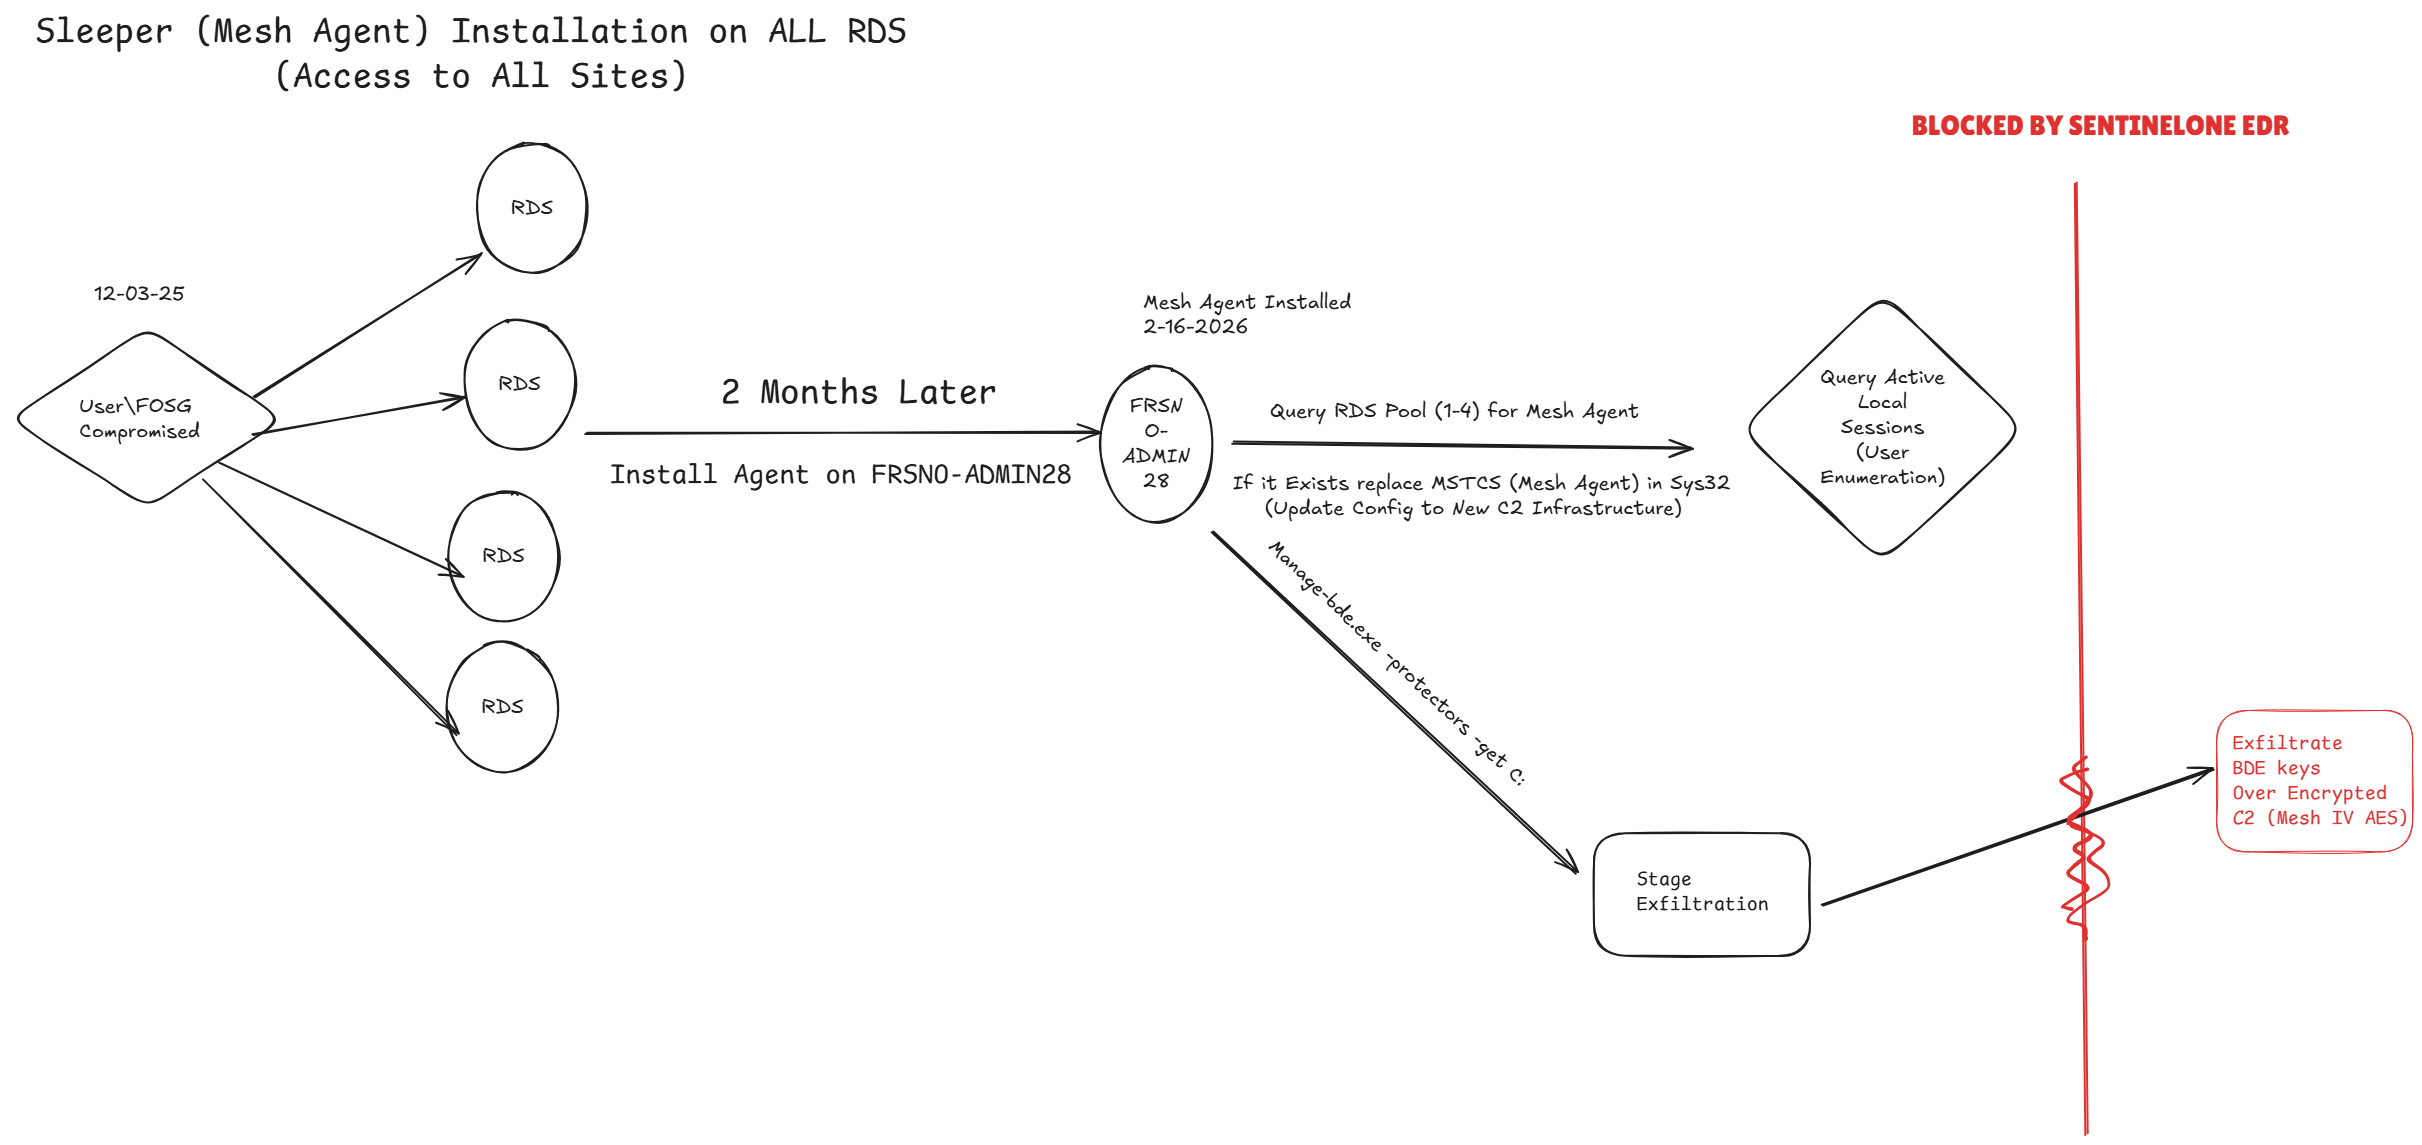
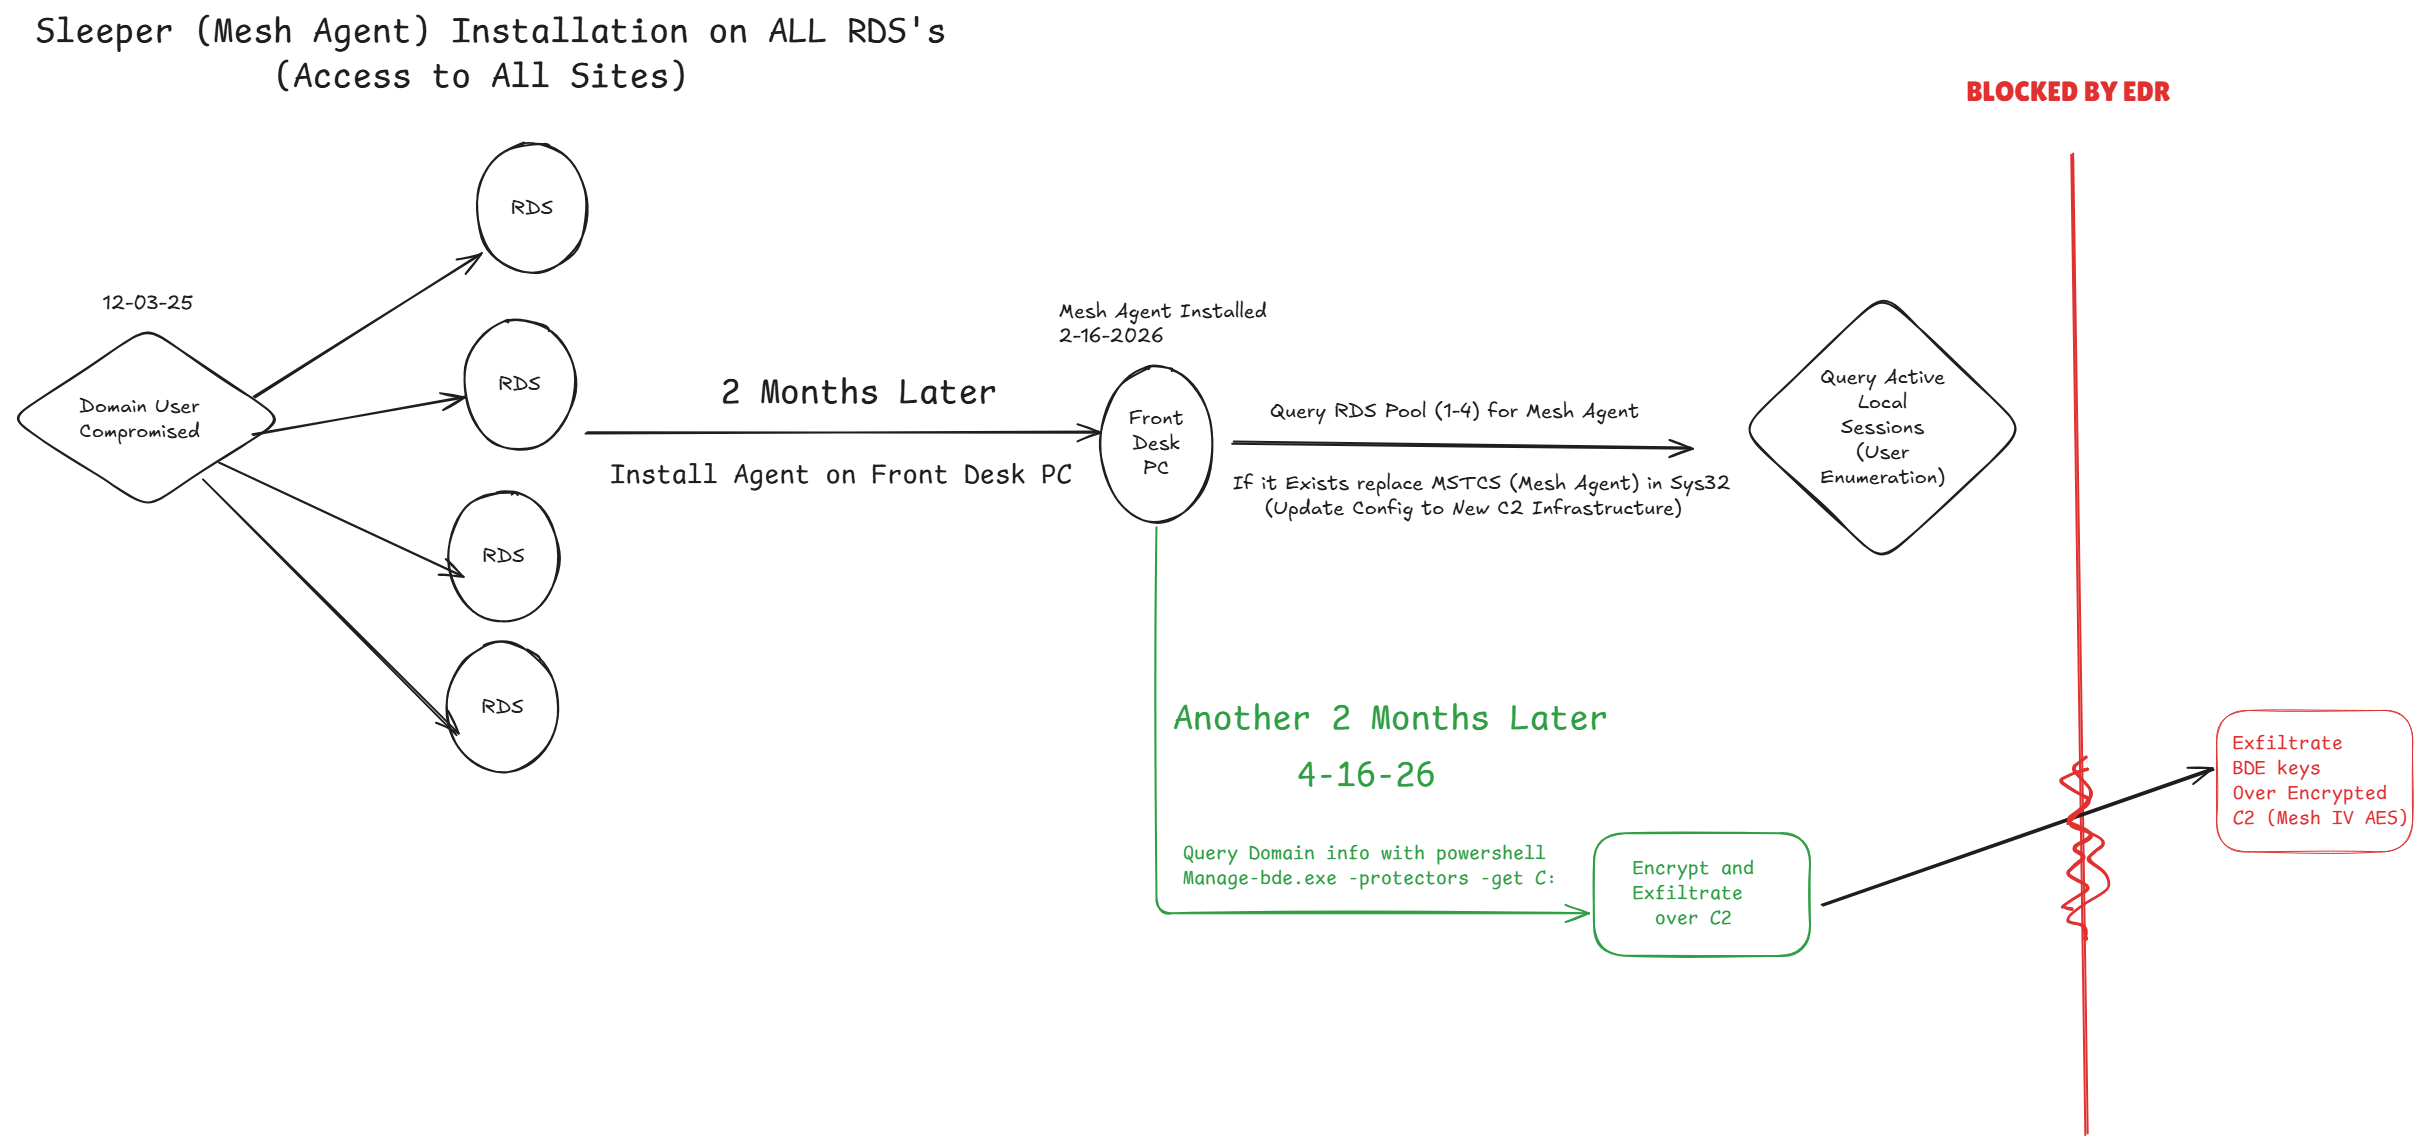
update blog posts

diff --git a/content/posts/Mesh_Agent_RMM_DFIR.md b/content/posts/Mesh_Agent_RMM_DFIR.md
@@ -1,6 +1,6 @@
 ---
 title: "Mesh Agent: A story of the random open-source RMM tool"
-date: 2026-05-06
+date: 2026-05-07
 author: garrettoh
 categories:
   - Security
@@ -11,35 +11,51 @@ tags:
   - Incident Report
 ---
 
- Threat Analysis: MeshAgent Sleeper Deployment and Attempted BDE Key Exfiltration
+# Threat Analysis: MeshAgent Sleeper RMM and Attempted BDE Key Exfiltration
 
-## Executive Summary
-This post details a multi-staged intrusion originating from a compromised user account, leading to the deployment of a "sleeper" MeshAgent payload across an RDS environment. The threat actor maintained persistence for over two months, conducting network reconnaissance and lateral movement before attempting to exfiltrate BitLocker (BDE) recovery keys. The final exfiltration phase over an encrypted C2 channel was successfully intercepted and blocked by SentinelOne EDR.
+## Initial Information
+I wanted to start this off by saying I had never heard of mesh agent previously up until this point. Essentially it is an Open Source RMM tool with a 2010 style UI. It allows for capabilities that many other RMM tools offer which can be used for legitmate purposes aswell as malicious ones. 
+
+This post we're going to go into the attack lifecycle of the attack some lessons learned and key points regarding the initial compromise.
 
 ### Diagram of Attack
 ![](/images/mesh_agent/rmm_diagram.png)
 ## Attack Timeline & Execution Flow
 
-### 1. Initial Access (2025-12-03)
-The intrusion began on December 3, 2025, with the compromise of the account `User\FOSG`. This compromise provided the threat actor with access to the environment's RDS pool (spanning RDS 1 through 4). 
+---
+
+### 1. Initial Access
+The initial compromise was a standard domain user whose password was compromised. This connection was created over the remote appliance, and then from there an initial foothold was on the RDS under that users account.
+
 
 ### 2. First-Stage Persistence & C2
-Initial persistence was established via a Mesh Agent installation on `frsno-rds-02`. An associated payload named `nfc zip` was identified during this phase. 
+After initial compromise they installed the `Mesh Agent` RMM software with their configuration to the `Program Files` Directory. This was installed on all RDS servers in the same directory.
 * **Initial C2 IP:** `104.238.129.233`
 * **Initial C2 Domain:** `hxxps://vultrusercontent[.]com:http`
 * **Uninstall String Identified:** `C:\Program Files\Mesh Agent\MeshAgent.exe -funinstall --meshServiceName="Mesh Agent"`
 
-### 3. Sleeper Deployment & Lateral Movement (2026-02-16)
-On February 16, 2026, the threat actor installed a new Mesh Agent payload on `FRSNO-ADMIN28`. This agent remained dormant on the device for 2 months and 2 weeks, during which it mapped out the network and prepared for data exfiltration. 
-
+### 3. Sleeper Deployment & Lateral Movement 
+From this point the threat actor laterally moved to a front desk PC whilst slowly mapping out the network.
 ### 4. Infrastructure Update & Execution
-Following the dormancy period, the attacker queried the RDS pool (1-4) for existing Mesh Agents. Where found, they replaced the existing legitimate `MSTCS` binary in the `System32` directory with a renamed Mesh Agent binary, `mvtcs.exe` (flagged with 32 detections). This action updated the configuration to point to a new, active C2 infrastructure on `FRSNO-RDS-02`: `wss[://]45.13.212[.]7:443`. The attacker then queried active local sessions for user enumeration. To escalate privileges and execute commands, the attacker utilized the following lateral movement command from the RDS to the Built-in Admin of the `FRSNO-ADMIN28` user:
-`mvtcs.exe --connectByUser='S-1-5-21-2909088412-1195962-2846074886-1000'`
+Following the dormancy/slow network mapping period after 2 months which would now be `April 16th 2026`, They added a file in all of the System32 Directories of the RDS Pool and updated the .msh configuration file to point to a new seemingly more active IP `wss://45.13.212[.]7:443`. The attacker queried sessions for local user enumeration and utilized the new binary in the System32 directory to establish a high-privilige session via the new binary. 
 
 ### 5. Attempted Exfiltration & EDR Mitigation
-Operating with administrative context on `FRSNO-ADMIN28`, the attacker executed the following command to extract BitLocker recovery keys:
-`Manage-bde.exe -protectors -get C:`
-The objective was to stage the BDE keys and exfiltrate them over the encrypted C2 channel (Mesh IV AES). SentinelOne EDR successfully detected and blocked this exfiltration attempt.
+Following the upgrade to a higher privilege level the attacker attempted to extract the BitLocker recovery keys and query more domain information
+```powershell
+Manage-bde.exe -protectors -get C:
+
+Get-Content (Get-PSReadLineOption).HistorySavePath
+
+Get-ChildItem -Path C:\ -Include *.xml,*.config,*.txt,*.ini 
+-Recurse -ErrorAction SilentlyContinue | Select-String -Pattern "password"
+
+$searcher = [adsisearcher]"(objectCategory=computer)"; 
+$searcher.Filter = "(&(objectClass=computer)(|(name=*SQL*)(name=*DC*)))"; 
+$searcher.FindAll() | ForEach-Object { $_.Properties.dnshostname }
+```
+The attackers objective was to encrypt the contents and extract the information over a TLS and AES IV encrypted tunnel with the new C2 Infrastructure.
+
+To me it looks like more AI slop, what a sad time to be alive.
 
 ## Indicators of Compromise (IOCs)
 
@@ -49,14 +65,25 @@ The objective was to stage the BDE keys and exfiltrate them over the encrypted C
 * `wss[://]45.13.212[.]7:443`
 
 ### File System IOCs
-* `C:\Windows\System32\mvtcs.exe` (Renamed Mesh Agent, replaced old MSTCS)
+* `C:\Windows\System32\mvtcs.exe` (Renamed Mesh Agent)
 * `C:\Program Files\Mesh Agent\MeshAgent.exe`
 
-### SHA256 Hashes (Identified on fresno-rds02 in C:\Program Files\Mesh Agent\)
+### SHA256 Hashes
[4 lines of base64/hex data omitted]
 
-### VirusTotal Results
+### Reference Analysis
 `https://www.virustotal.com/gui/file/7e325b6769dcb900f88161e52ba61b18f9f39127f08551638bd652fa2a267833/community`
+
+---
+
+### Personal notes/Information to reach me
+
+P.S if anyone has any really cool samples keep them in your vault, I'm going to setup a communication tunnel on the website rather than just a static blog hugo site. 
+
+So far I'm loving it though
+
+If you want a social for now you can reach out to garrettoh on discord :)
+

diff --git a/content/posts/AtomicRedTeamLab.md b/content/posts/AtomicRedTeamLab.md
@@ -1,6 +1,6 @@
 ---
 title: "Building an IR Lab with Atomic Red Team: Moving Beyond TryHackMe"
-date: 2026-05-07
+date: 2026-05-11
 author: garrettoh
 categories:
   - Security